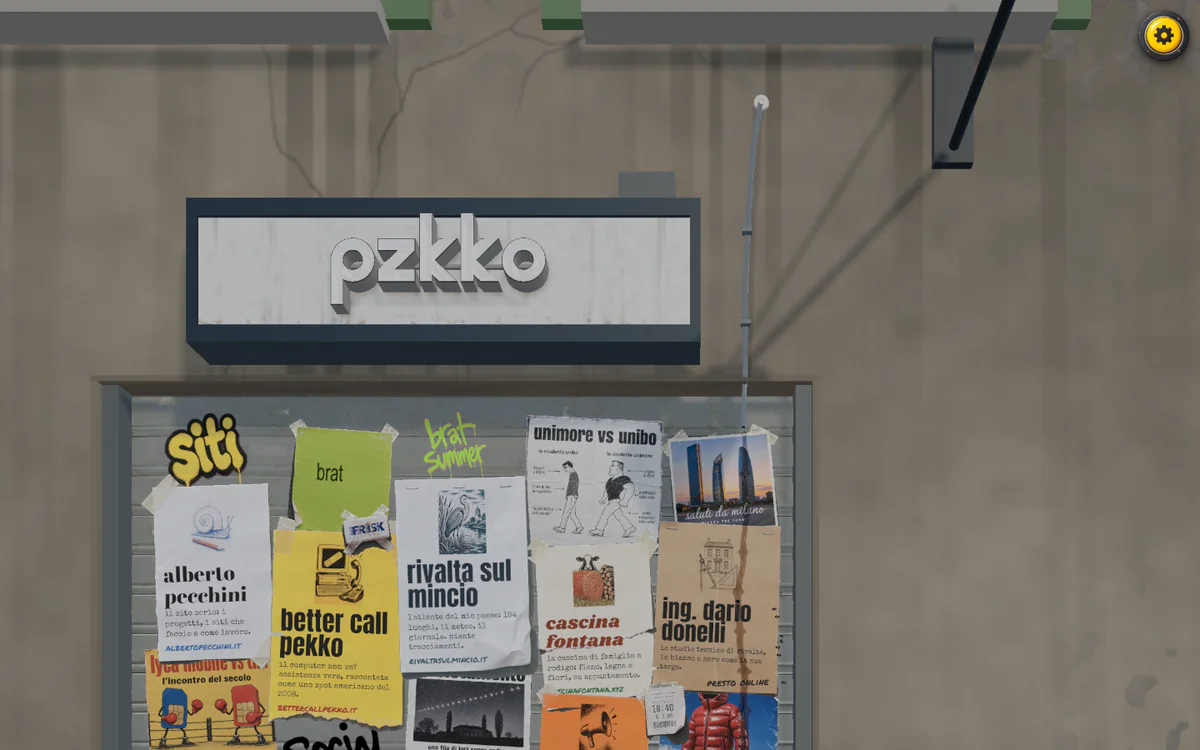
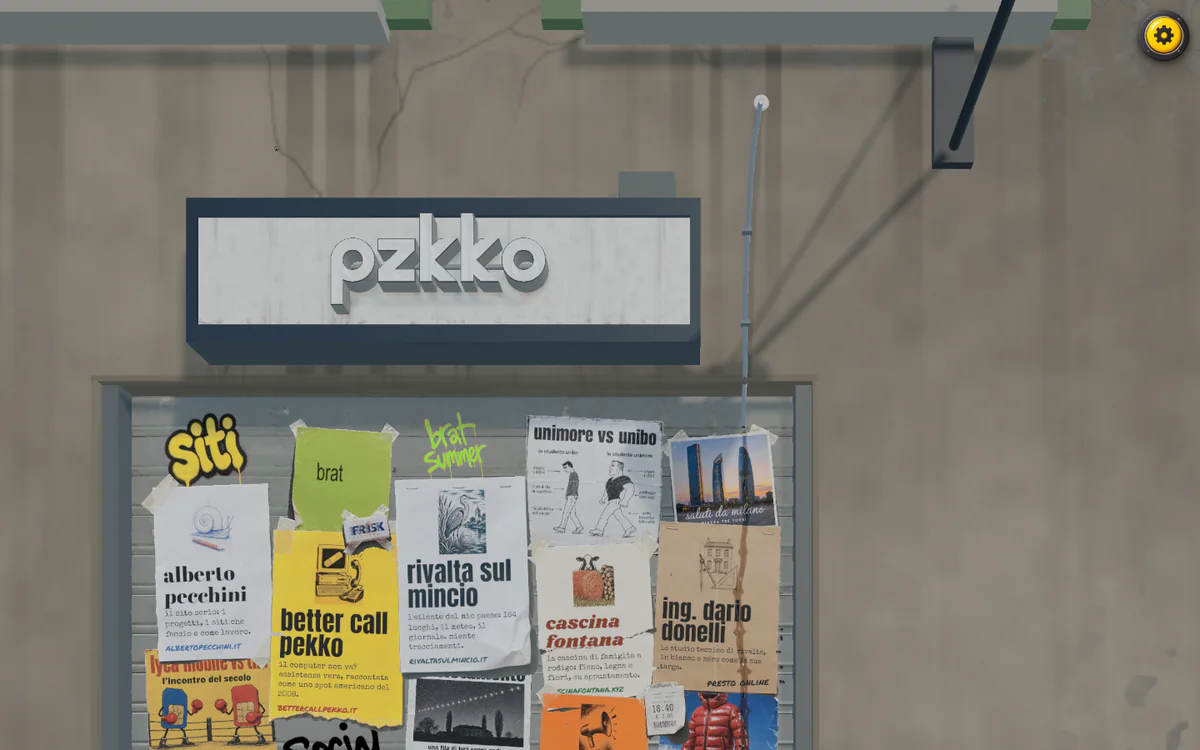
fix(catture): pzkko.it anche su GitHub, dove la scena 3D gira in software
Su GitHub non c'è scheda video: la scena di pzkko.it gira in SwiftShader, lenta, e la
pagina non arrivava a «rete ferma» entro i 60 s di goto. Per pzkko si carica fino al
documento (carica: 'domcontentloaded', 3 minuti) e la scena si aspetta fino a 3 minuti; il
giro delle catture può durare 40 minuti invece di 20. Rifatte le catture di pzkko col
volantino nuovo.

diff --git a/albertopecchini.it/src/data/catture.js b/albertopecchini.it/src/data/catture.js
@@ -28,16 +28,16 @@ export const catture = {
   'dd-mobile-tall.webp': { w: 600, h: 4000, v: '8e1cff59' },
   'dd-mobile.webp': { w: 600, h: 1298, v: '93168203' },
   'dd-tablet.webp': { w: 720, h: 1036, v: '24abfc77' },
-  'pzk-404-mobile.webp': { w: 600, h: 1298, v: '449e8802' },
+  'pzk-404-mobile.webp': { w: 600, h: 1298, v: '63edc373' },
   'pzk-bologna-m.webp': { w: 540, h: 720, v: 'ae6d59d0' },
   'pzk-bologna.webp': { w: 1080, h: 1440, v: '4cc7cd1d' },
-  'pzk-desktop-tall.webp': { w: 1200, h: 2833, v: 'cd02b67d' },
-  'pzk-desktop.webp': { w: 1200, h: 750, v: '2566ef7c' },
-  'pzk-mobile-tall.webp': { w: 600, h: 4000, v: 'b3ad1555' },
-  'pzk-mobile.webp': { w: 600, h: 1298, v: '04ba16ee' },
-  'pzk-notte-desktop.webp': { w: 1200, h: 750, v: '72eb981d' },
-  'pzk-roulette-tablet.webp': { w: 720, h: 960, v: 'b86891fd' },
-  'pzk-tablet.webp': { w: 720, h: 1036, v: '8df19966' },
+  'pzk-desktop-tall.webp': { w: 1200, h: 2833, v: 'ea451368' },
+  'pzk-desktop.webp': { w: 1200, h: 750, v: '49bd3ad7' },
+  'pzk-mobile-tall.webp': { w: 600, h: 4000, v: 'dde5e0ab' },
+  'pzk-mobile.webp': { w: 600, h: 1298, v: '1011538b' },
+  'pzk-notte-desktop.webp': { w: 1200, h: 750, v: 'e97b4335' },
+  'pzk-roulette-tablet.webp': { w: 720, h: 960, v: 'bd4f1c39' },
+  'pzk-tablet.webp': { w: 720, h: 1036, v: '05a401bf' },
   'rivalta-desktop-tall.webp': { w: 1200, h: 2833, v: '4dc164de' },
   'rivalta-desktop.webp': { w: 1200, h: 750, v: 'ebc5f18d' },
   'rivalta-luogo-tablet.webp': { w: 720, h: 960, v: '0a6e6c87' },

diff --git a/albertopecchini.it/tools/catture/siti.js b/albertopecchini.it/tools/catture/siti.js
@@ -89,10 +89,13 @@ export const siti = {
     // spente e la cattura usciva nera (fino al 21.10, quando il giro di GitHub cadeva di sera).
     // Dal 18.10 la home è una scena 3D, che arriva dopo il caricamento (col movimento ridotto senza il volo): le catture
     // della finestra la aspettano pronta, se no erano il nero del caricamento (21.10). Le pagine intere sono il muro di
-    // sempre (?muro=1): la scena è una tela fissa grande quanto la finestra, a strisce non si fotografa
+    // sempre (?muro=1): la scena è una tela fissa grande quanto la finestra, a strisce non si fotografa.
+    // Su GitHub non c'è scheda video: la scena gira in software (SwiftShader), lenta, e la pagina non arrivava mai a
+    // «rete ferma» entro i 60 s di goto. Si carica fino al documento (carica) e la scena si aspetta fino a 3 minuti
+    carica: 'domcontentloaded',
     prima: async (page) => {
       await page
-        .waitForFunction(() => document.documentElement.dataset.scena === 'pronta' || !document.documentElement.classList.contains('scena-carico'), { timeout: 90_000 })
+        .waitForFunction(() => document.documentElement.dataset.scena === 'pronta' || !document.documentElement.classList.contains('scena-carico'), { timeout: 180_000, polling: 1000 })
         .catch(() => console.log(`! ${page.url()}: la scena 3D non è arrivata`))
       await page.evaluate(() => scrollTo(0, 0))
       await new Promise((r) => setTimeout(r, 2000))
